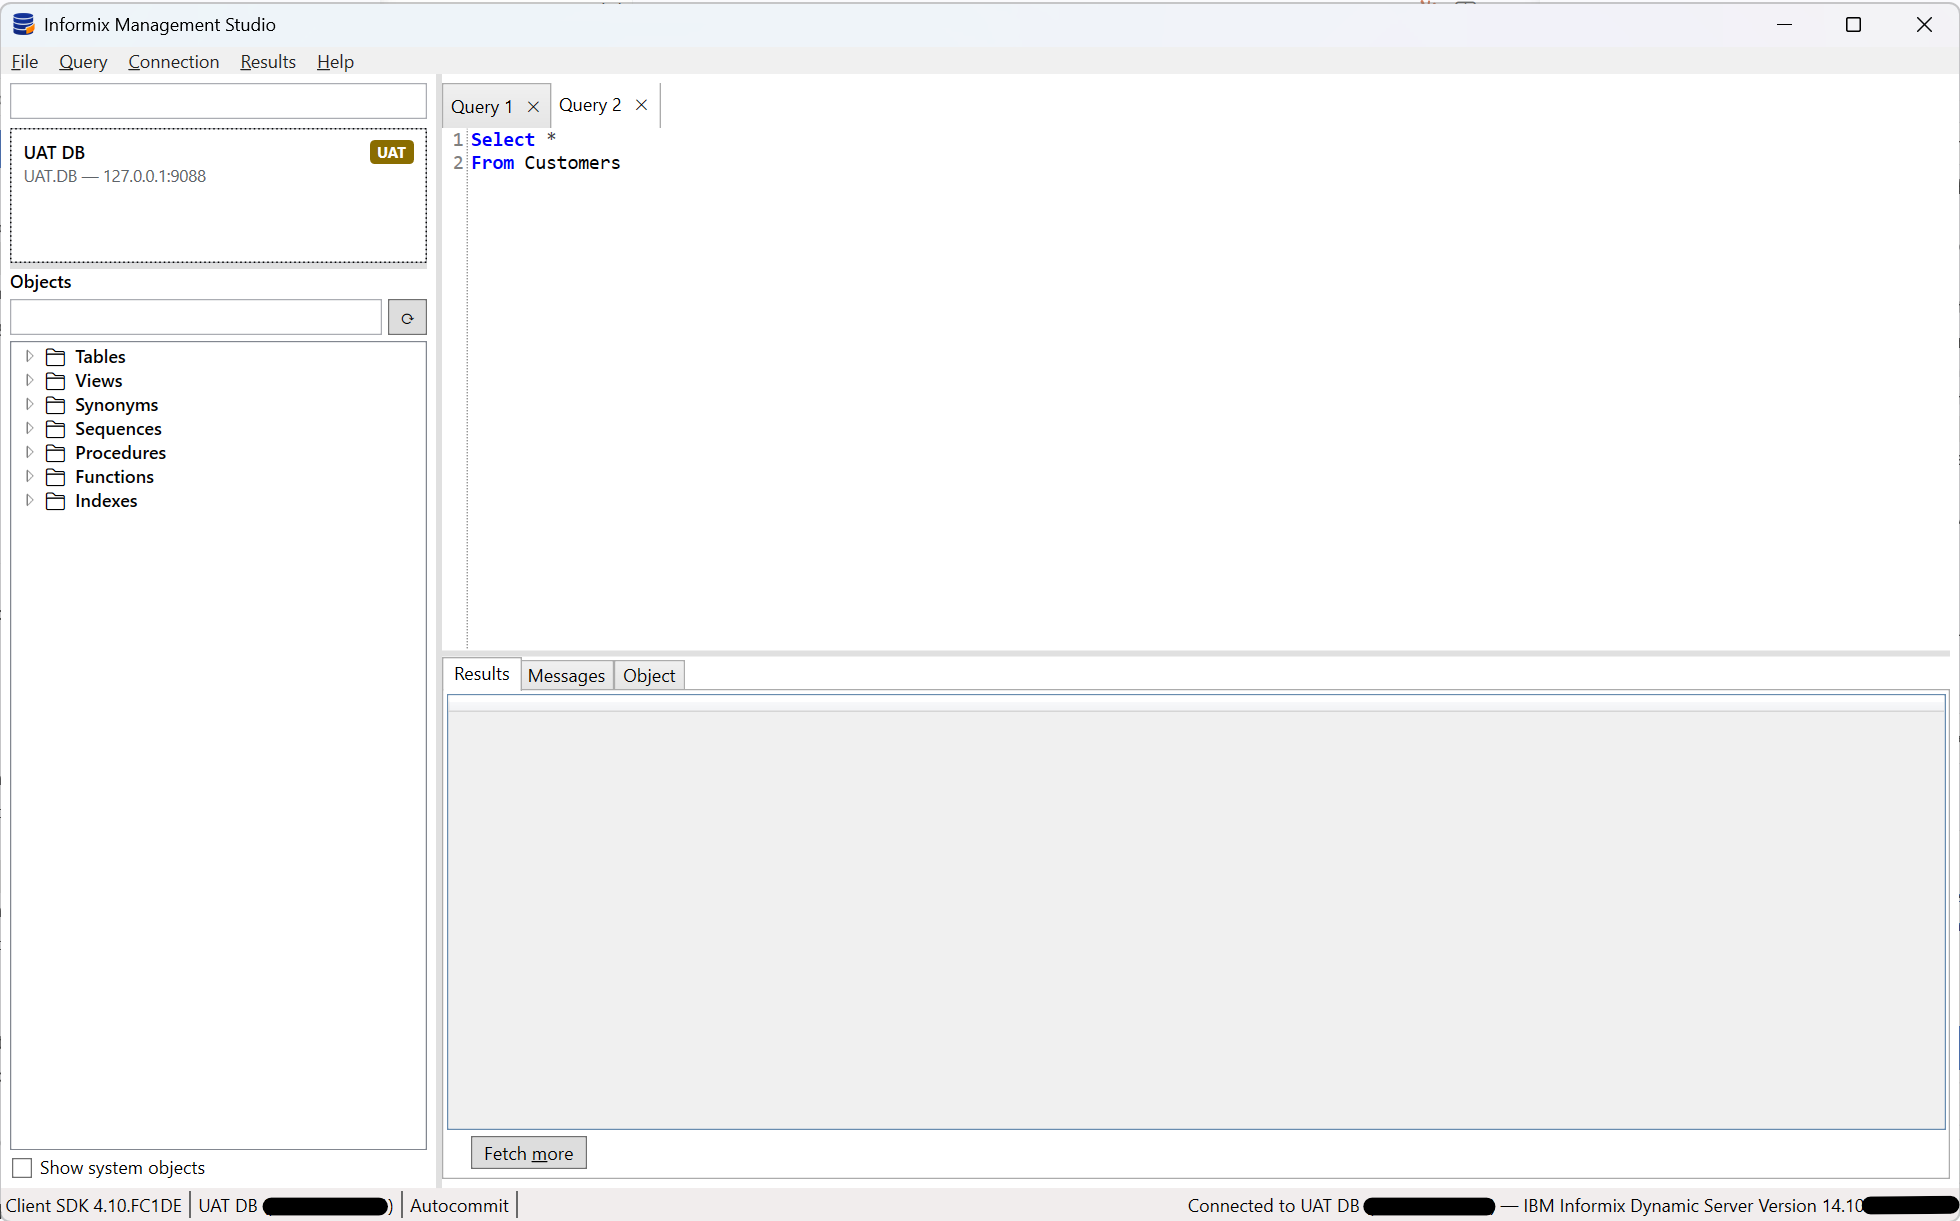
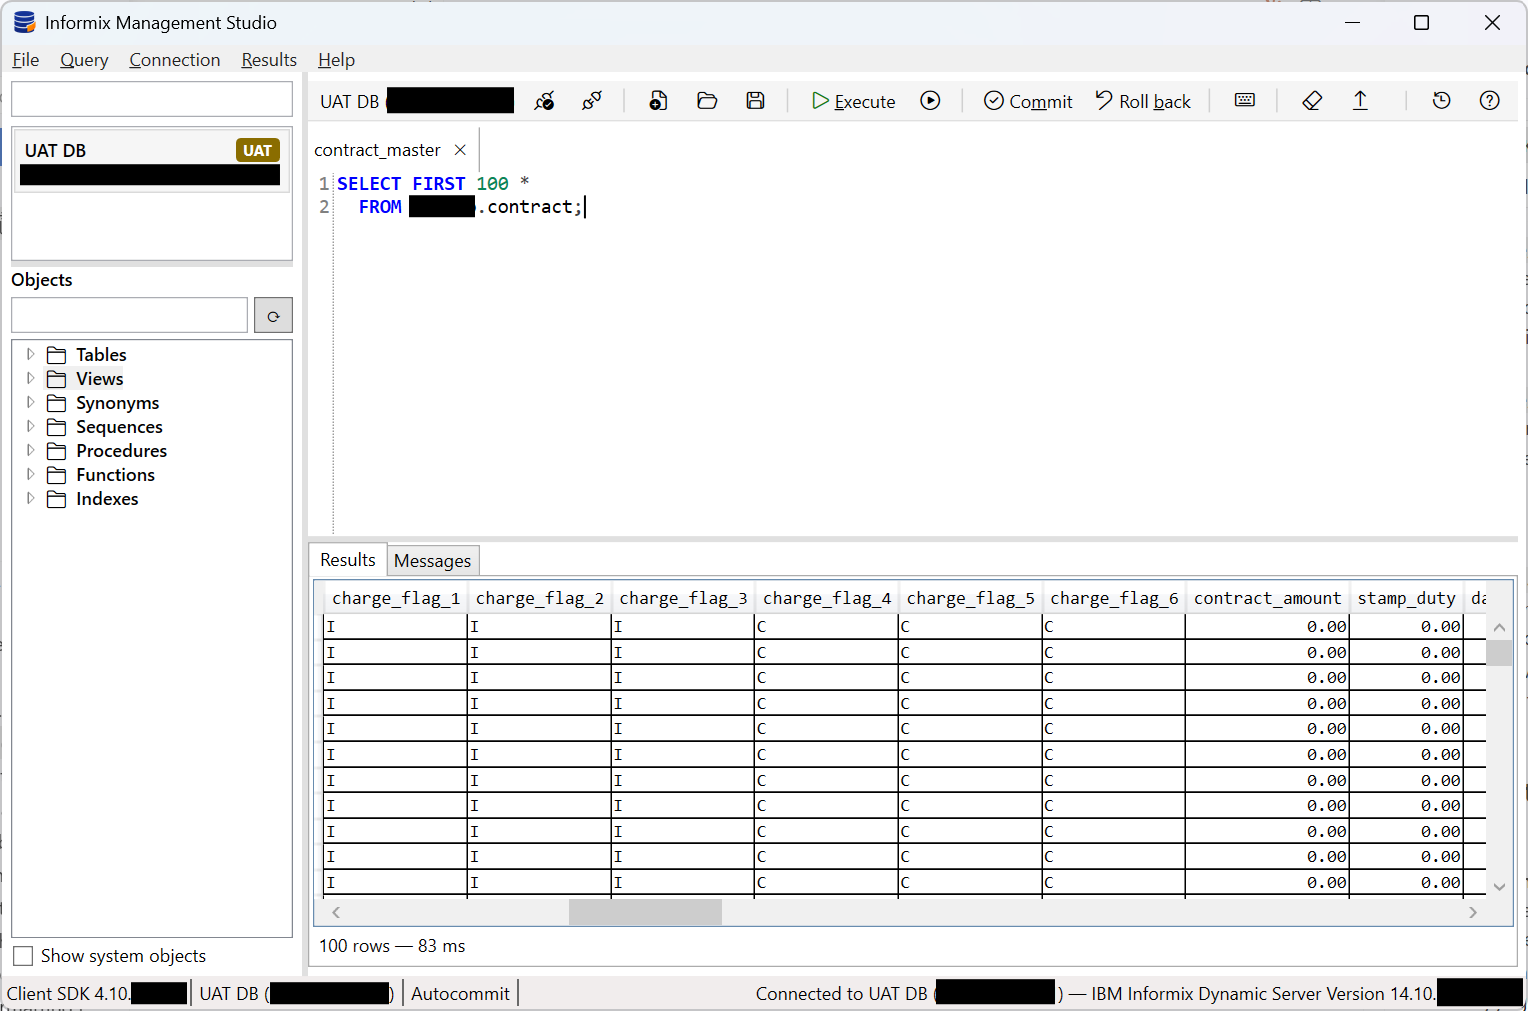
Bump the version to 0.2.0 and refresh what the docs claim
The minor rather than the patch: the toolbar and object-detail tabs are
capability, not repair.

Three things the last few changes had left saying something untrue.

PILOT-INSTALL named v0.1.0-pilot, two releases behind. It is the document a
pilot user is handed, so a wrong version there is the worst place for one.

The landing page described selecting an object to see its definition, which was
the behaviour before detail moved into the tab strip, and its screenshot
predated the toolbar. New capture, with the server and schema names redacted,
and the prose now matches. The Query section gains a paragraph on the toolbar,
since the page listed the gestures and not the way to reach them with a mouse.

The image's declared width and height were still the old capture's 1960x1221
against an actual 1528x1011, which would have squashed it and shifted the layout
as it loaded. Corrected to the real size.

The README is deliberately unchanged: its status block is still accurate, and
the toolbar is a new route to capabilities it already lists rather than a new
capability to add.

diff --git a/site/index.html b/site/index.html
@@ -507,12 +507,13 @@ pre code { background: none; padding: 0; font-size: 1em; }
   <!-- F4 · Step sequence — the four v1 capabilities, in the order you meet them -->
   <section class="band--tight shell">
     <figure class="shot">
-      <img src="img/Screenshot01.png" width="1960" height="1221"
+      <img src="img/Screenshot01.png" width="1528" height="1011"
            fetchpriority="high" decoding="async"
-           alt="The IMS main window: saved connections and the object tree on the left, a SQL editor with two query tabs above a result grid on the right, and a status bar reporting the Client SDK version and the connected server.">
+           alt="The IMS main window: saved connections and the object tree on the left; on the right a query toolbar, a SQL editor tab, and a result grid of 100 rows; a status bar reporting the Client SDK version and the connected server.">
       <figcaption>
-        Connections and objects on the left, editor and results on the right. The status bar carries
-        the Client SDK version and what you are connected to.
+        Connections and objects on the left, editor and results on the right. The toolbar above the
+        editor carries the query actions, and greys out the ones that need a connection. The status
+        bar carries the Client SDK version and what you are connected to.
       </figcaption>
     </figure>
   </section>
@@ -545,8 +546,9 @@ pre code { background: none; padding: 0; font-size: 1em; }
           <p class="stage__body">
             Tables, views, synonyms, sequences, procedures, functions and indexes, grouped by owner.
             Nodes load their children on demand rather than reading the whole catalogue at connect
-            time, so opening a large schema does not stall. Selecting an object shows its
-            definition; for a view, that is the source Informix itself holds.
+            time, so opening a large schema does not stall. Opening an object gives it a tab of its
+            own, beside the query tabs, showing its definition; for a view, that is the source
+            Informix itself holds.
           </p>
           <span class="stage__state">Built · user-defined types not yet listed</span>
         </div>
@@ -560,6 +562,12 @@ pre code { background: none; padding: 0; font-size: 1em; }
             Informix SQL and SPL highlighting. Each tab holds one script with its own connection and
             its own results, so a long query in one tab does not block work in another. Select text
             and run to execute only the selection.
+          </p>
+          <p class="stage__body">
+            A toolbar above the editor carries the same actions, so none of them depends on knowing
+            its key. It names the instance the current tab runs against, greys out everything that
+            needs a connection until there is one, and turns Execute into Cancel while a statement
+            is running.
           </p>
           <p class="stage__body">
             Rows are fetched in blocks rather than all at once, so a large result starts displaying

diff --git a/docs/PILOT-INSTALL.md b/docs/PILOT-INSTALL.md
@@ -1,6 +1,6 @@
 # IMS pilot — installing and what to expect
 
-Informix Management Studio, pilot build `v0.1.0-pilot`. One window in which to connect to an
+Informix Management Studio, pilot build `v0.2.0-pilot`. One window in which to connect to an
 Informix server, write and run SQL, read results, and browse the schema.
 
 This is a pilot, not a release. It is worth your time, and there are three things you need to
